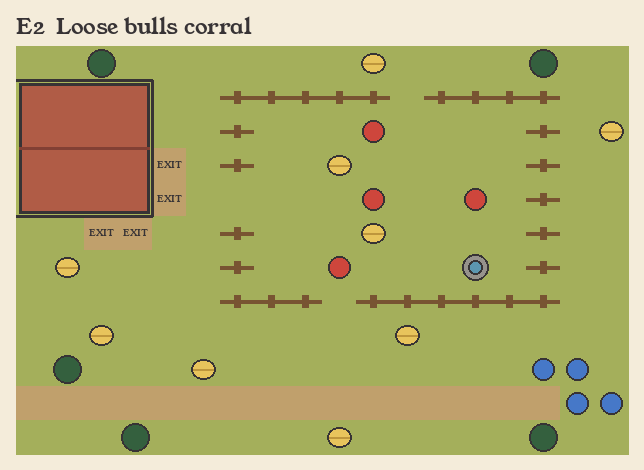
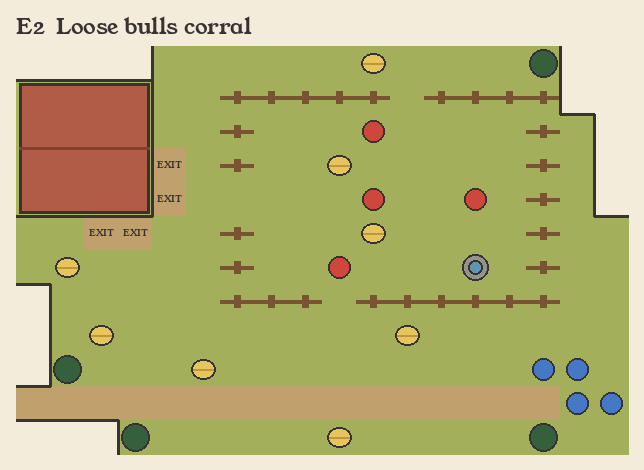
Set pieces: redraw W2 with falls and high banks, cut every outline (Brandon's notes)
Claude-Session: https://claude.ai/code/session_01WsfTZE8ijcoxpFK2v97Y5h

diff --git a/tools/setpieces/layouts.py b/tools/setpieces/layouts.py
@@ -29,31 +29,7 @@ LAYOUTS = {
 "wwwwwwwwwwwwwwww",
 "wwwwwwwwwwwwwwww"]),
 
-"W2": dict(zone="west", name="Stepping-stone rapids", h=[
-"2222221111333333",
-"2222221111333333",
-"2222221111333333",
-"2222221111333333",
-"2222221111333333",
-"2222221111333333",
-"2222221111333333",
-"2222221111333333",
-"2222221111333333",
-"2222221111333333",
-"2222220000333333",
-"2222220000333333"], t=[
-"ttt   wwww   ttt",
-"tt  ddbbbbdd  tt",
-"t  d  wwww  d  t",
-"t d   RRRR   dEt",
-" d    RRRR  r   ",
-"d     RRRR  Q  E",
-"ppddddooooddddd ",
-"pp    RRRR    E ",
-"t     RRRR  r   ",
-"t   t RRRR  Q tt",
-"tt    vvvv    tt",
-"ttt   wwww   ttt"]),
+"W2": None,  # built below: falls up top with the bridge over them, high ground on both banks
 
 "W3": dict(zone="west", name="Lake dock and hut", h=[
 "2222221111111111",
@@ -237,3 +213,67 @@ LAYOUTS = {
 "dddddddddddddddddd",
 "    PPP      t    "]),
 }
+
+
+def _w2():
+    """W2: the river falls from an upper pool (the bridge crosses above the falls), then runs as rapids past a line
+    of stepping stones. Both banks rise: a rocky outcrop on the left (stairs, a scramble), a knoll on the right."""
+    h = [
+        "..555555555555..",
+        "..555555555555..",
+        ".444451111555555",
+        "4444221111555555",
+        "4444221111555555",
+        "2444221111335555",
+        "2222221111333355",
+        "2222221111333333",
+        "2222221111335553",
+        ".222221111335553",
+        "..22221111335553",
+        "..2222111133333.",
+        "...22.1111.333..",
+    ]
+    t = [[" "] * 16 for _ in h]
+    def put(ch, *cells):
+        for x, y in cells:
+            t[y][x] = ch
+    for y in range(13):
+        for x in range(6, 10):
+            t[y][x] = "w" if y < 2 or y > 10 else ("v" if y == 2 else "R")
+    put("o", *[(x, 7) for x in range(6, 10)])
+    put("b", *[(x, 1) for x in range(5, 11)])
+    put("d", (2, 1), (3, 1), (4, 1), (11, 1), (4, 4), (4, 5), (0, 7), (1, 7), (2, 7), (3, 7), (4, 7), (5, 7),
+        (10, 7), (11, 7), (12, 7), (13, 7), (14, 7), (15, 7))
+    put("s", (4, 2), (4, 3), (3, 6), (12, 6), (12, 11))
+    put("L", (0, 5), (11, 9))
+    put("t", (2, 0), (3, 0), (4, 0), (12, 0), (13, 0), (1, 8), (2, 9), (3, 11), (14, 11), (15, 3), (15, 4))
+    put("r", (11, 3), (14, 6), (5, 9), (1, 2))
+    put("P", (3, 8), (4, 8), (4, 9), (5, 8))
+    put("p", (1, 3), (2, 3), (1, 4), (2, 4))
+    put("E", (12, 1), (13, 8), (14, 10))
+    put("Q", (11, 8))
+    return dict(zone="west", name="Stepping-stone falls", h=h, t=["".join(r) for r in t])
+
+
+LAYOUTS["W2"] = _w2()
+
+# The outline: cells cut out of each map so no map is a plain box (map-look rule V9: cuts run two cells or more
+# along an edge where they can). Rectangles x0, y0, x1, y1, inclusive.
+CUTS = {
+    "W1": [(0, 0, 1, 1), (6, 0, 8, 0), (15, 0, 15, 1), (0, 10, 2, 11), (12, 11, 15, 11), (15, 8, 15, 10)],
+    "W3": [(0, 0, 2, 0), (13, 0, 15, 1), (15, 2, 15, 3), (0, 11, 1, 11), (14, 11, 15, 11), (0, 7, 0, 8)],
+    "N1": [(0, 0, 1, 0), (14, 10, 15, 11), (12, 11, 13, 11), (0, 5, 0, 6), (15, 4, 15, 5)],
+    "N2": [(0, 0, 2, 1), (12, 0, 15, 0), (15, 1, 15, 2), (0, 10, 2, 11), (13, 10, 15, 11), (0, 5, 0, 6)],
+    "N3": [(0, 0, 1, 1), (14, 0, 15, 0), (0, 11, 2, 11), (13, 11, 15, 11), (15, 4, 15, 6)],
+    "E1": [(0, 7, 1, 7), (17, 7, 17, 9), (13, 11, 17, 11), (17, 10, 17, 10), (0, 0, 1, 0)],
+    "E2": [(0, 0, 3, 0), (16, 0, 17, 1), (0, 11, 2, 11), (17, 2, 17, 4), (0, 7, 0, 9)],
+    "E3": [(0, 0, 1, 1), (16, 0, 17, 0), (0, 11, 3, 11), (14, 11, 17, 11), (17, 5, 17, 7)],
+}
+for _k, _rects in CUTS.items():
+    _h = [list(r) for r in LAYOUTS[_k]["h"]]
+    for x0, y0, x1, y1 in _rects:
+        for y in range(y0, y1 + 1):
+            for x in range(x0, x1 + 1):
+                assert LAYOUTS[_k]["t"][y][x] not in "PpEQB", (_k, x, y)
+                _h[y][x] = "."
+    LAYOUTS[_k]["h"] = ["".join(r) for r in _h]

diff --git a/tools/setpieces/sketch.py b/tools/setpieces/sketch.py
@@ -109,7 +109,7 @@ def draw(key, path):
                 pass
         # blocks drawn as one shape below
     def blocks(ch, fill):
-        cells = [(x, y) for y in range(rows) for x in range(cols) if T[y][x] == ch]
+        cells = [(x, y) for y in range(rows) for x in range(cols) if T[y][x] == ch and hv(x, y) is not None]
         seen = set()
         for c in cells:
             if c in seen: continue
@@ -150,7 +150,12 @@ def draw(key, path):
                 nx, ny = x + dx, y + dy
                 if not (0 <= nx < cols and 0 <= ny < rows): continue
                 n = hv(nx, ny)
-                if n is None or h is None or n >= h: continue
+                if h is None: continue
+                if n is None:  # the map's own edge
+                    x0, y0, x1, y1 = box(x, y)
+                    d.line({(1, 0): (x1, y0, x1, y1), (-1, 0): (x0, y0, x0, y1), (0, 1): (x0, y1, x1, y1), (0, -1): (x0, y0, x1, y0)}[(dx, dy)], fill=OUT, width=3)
+                    continue
+                if n >= h: continue
                 if T[ny][nx] == "s" or T[y][x] == "s" or T[y][x] in "b" or T[ny][nx] == "b": w = 2
                 else: w = 2 + min(h - n, 6)
                 x0, y0, x1, y1 = box(x, y)
@@ -160,6 +165,7 @@ def draw(key, path):
     for y in range(rows):
         for x in range(cols):
             t = T[y][x]; cx, cy = pad + x * C + C / 2, top + y * C + C / 2
+            if hv(x, y) is None: continue
             if t == "P":
                 d.ellipse((cx - 11, cy - 11, cx + 11, cy + 11), fill=(70, 120, 200), outline=OUT, width=2)
             elif t == "p":

diff --git a/docs/design/set-pieces.md b/docs/design/set-pieces.md
@@ -1,6 +1,6 @@
 # Road set pieces (pitch)
 
-Status: **[AI] pitch, 2026-11-17, waiting on Brandon's picks.** Nothing is built yet. Page with sketches:
+Status: **[USER] 2026-11-17: all nine approved, with two notes (below). Build in progress.** Page with sketches:
 https://claude.ai/artifact/MpxxgNjBQnvE1BhdqhAGsw. Sketches: `docs/art/set-pieces/` (drawn by
 `python3 tools/setpieces/sketch.py <out_dir>` from the grids in `tools/setpieces/layouts.py`).
 
@@ -9,6 +9,12 @@ north) that match those environments better ... they should still be set pieces.
 that tie in with the story scenario the player encounters ... Pitch me 2-3 scenarios for each direction, then I'll
 have you build those maps."
 
+Brandon on the pitch, 2026-11-17: "I love all of this except W2 could use some height, let the top part be a waterfall
+with the bridge up top, and some elevation on both sides that players/enemies could scramble up to get higher ground.
+Also remember one of our core rules, these maps should not be just big squares and rectangles, the overall map shape
+can and should be interesting too!" So W2 was redrawn, and every map's outline is cut in and out (`CUTS` in
+`layouts.py`); the built maps must pass the map shape bar (`tools/map_shape.py --fight`).
+
 Each map is built round one landmark. The road event's choice decides the start: going closer walks into the
 ambush (party at the landmark, hidden foes, foes move first); keeping distance means no fight or a fair start
 (party at the edge, party first, hidden foes shown). Option labels are working names; the prompts are Brandon's.
@@ -16,7 +22,7 @@ ambush (party at the landmark, hidden foes, foes move first); keeping distance m
 | Id | Road | Anchor | New work | Size |
 | --- | --- | --- | --- | --- |
 | W1 | West | Tipped wagon on the river road, thieves' cover on one side | wagon prop, prop cover | S |
-| W2 | West | Stepping stones over rapids, log bridge the long way | rapids sweep pushed pieces downstream | M |
+| W2 | West | Waterfall with the bridge across its top, stepping stones over the rapids below, high ground on both banks | rapids sweep pushed pieces downstream, scramble tiles | M |
 | W3 | West | Lake hut and dock, crawlers in the reeds | reeds, falling in the lake | M |
 | N1 | North | Ruined watchtower, four levels up | climb tiles (ladder, ivy), leader goal | M |
 | N2 | North | Shrine stone in a sunken snowy ruin bowl, skeletons rise | optional ice slide | S |

diff --git a/docs/decisions.md b/docs/decisions.md
@@ -773,3 +773,4 @@ Next I think the hero's skills and doggos skills need some consideration. What t
 - [USER] 2026-11-16 The ogre after the west's food cut, asked "Trim the ogre to 12 HP so two are back to about even odds?": "Yes, trim him". (Brandon, Claude window)
 - [AI] 2026-11-16 Following that, landed: `data/classes/ogre.tres` HP 8 (was 10 earlier today, 24 before), so the forest's elite ogre is 12 HP, 5 damage, 1 armor. Measured on the written data (hero and Doggo, 60 runs a weapon, sword / daggers, tries 1 to 3): holding 4 portions back 35 / 37%, 41 / 63%, 43 / 50%; eating everything 53 / 48%, 75 / 55%, 57 / 64%. The bow and a party with Amber win 100%. (balance)
 - [AI] 2026-11-17 Road fights become set pieces, one landmark per map tied to the road event; the choice on the road sets the start (closer = ambushed, distance = no fight or a fair start). Nine pitched, three per road (W1-W3, N1-N3, E1-E2-E3), for Brandon to pick 2-3 per road: `docs/design/set-pieces.md`. Asked for by Brandon 2026-11-17 ("they should still be set pieces. Something should anchor each map").
+- [USER] 2026-11-17 Road set pieces, on the nine pitched (`docs/design/set-pieces.md`): "I love all of this except W2 could use some height, let the top part be a waterfall with the bridge up top, and some elevation on both sides that players/enemies could scramble up to get higher ground. Also remember one of our core rules, these maps should not be just big squares and rectangles, the overall map shape can and should be interesting too!" (Brandon)
